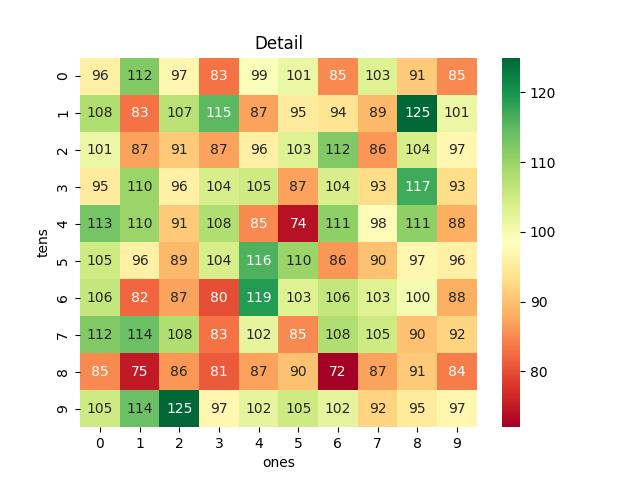
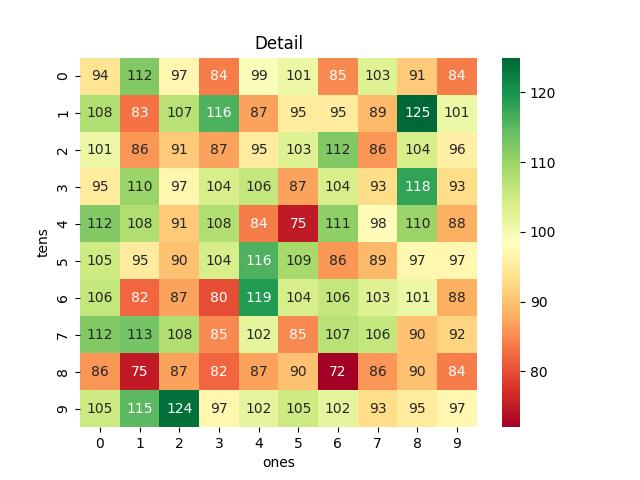
Updated 2023-01-02

diff --git a/README.md b/README.md
@@ -4,13 +4,13 @@ Using GitHub Action to automatically fetch and analyze results of the Vietnam lo
 
 | Lotery      | Loto |
 | :-----------: | :-----------: |
-| <table><tr><td>Date</td><td>01-01-2023</td></tr><tr><td>Special</td><td>16705</td></tr><tr><td>First</td><td>76828</td></tr><tr><td>Second</td><td>65067, 99229</td></tr><tr><td rowspan="2">Third</td><td>37479, 43231, 85530</td></tr><tr><td>21742, 26053, 25473</td></tr><tr><td>Fourth</td><td>4250, 7737, 3949, 9814</td></tr><tr><td rowspan="2">Fifth</td><td>2879, 2534, 0977</td></tr><tr><td>9752, 0363, 5688</td></tr><tr><td>Sixth</td><td>864, 443, 591</td></tr><tr><td>Seventh</td><td>59, 47, 96, 67</td></tr></table> | <table><tr><td>First</td><td>Last</td></tr><tr><td>0</td><td>5</td></tr><tr><td>1</td><td>4</td></tr><tr><td>2</td><td>8, 9</td></tr><tr><td>3</td><td>0, 1, 4, 7</td></tr><tr><td>4</td><td>2, 3, 7, 9</td></tr><tr><td>5</td><td>0, 2, 3, 9</td></tr><tr><td>6</td><td>3, 4, 7, 7</td></tr><tr><td>7</td><td>3, 7, 9, 9</td></tr><tr><td>8</td><td>8</td></tr><tr><td>9</td><td>1, 6</td></tr></table> |
+| <table><tr><td>Date</td><td>02-01-2023</td></tr><tr><td>Special</td><td>49265</td></tr><tr><td>First</td><td>43459</td></tr><tr><td>Second</td><td>12407, 10068</td></tr><tr><td rowspan="2">Third</td><td>35934, 71383, 25973</td></tr><tr><td>92732, 33938, 09386</td></tr><tr><td>Fourth</td><td>2697, 9832, 8291, 0173</td></tr><tr><td rowspan="2">Fifth</td><td>8813, 7077, 3452</td></tr><tr><td>5042, 1616, 8189</td></tr><tr><td>Sixth</td><td>194, 469, 503</td></tr><tr><td>Seventh</td><td>82, 16, 80, 45</td></tr></table> | <table><tr><td>First</td><td>Last</td></tr><tr><td>0</td><td>3, 7</td></tr><tr><td>1</td><td>3, 6, 6</td></tr><tr><td>2</td><td>-</td></tr><tr><td>3</td><td>2, 2, 4, 8</td></tr><tr><td>4</td><td>2, 5</td></tr><tr><td>5</td><td>2, 9</td></tr><tr><td>6</td><td>5, 8, 9</td></tr><tr><td>7</td><td>3, 3, 7</td></tr><tr><td>8</td><td>0, 2, 3, 6, 9</td></tr><tr><td>9</td><td>1, 4, 7</td></tr></table> |
 
 <h2>Analysis of one-year results</h2>
 
 Max: 125. Min: 72.
 
-Mean: 97.47. Standard deviation: 11.33.
+Mean: 97.47. Standard deviation: 11.25.
 
 <h3>Detail</h3>
 
